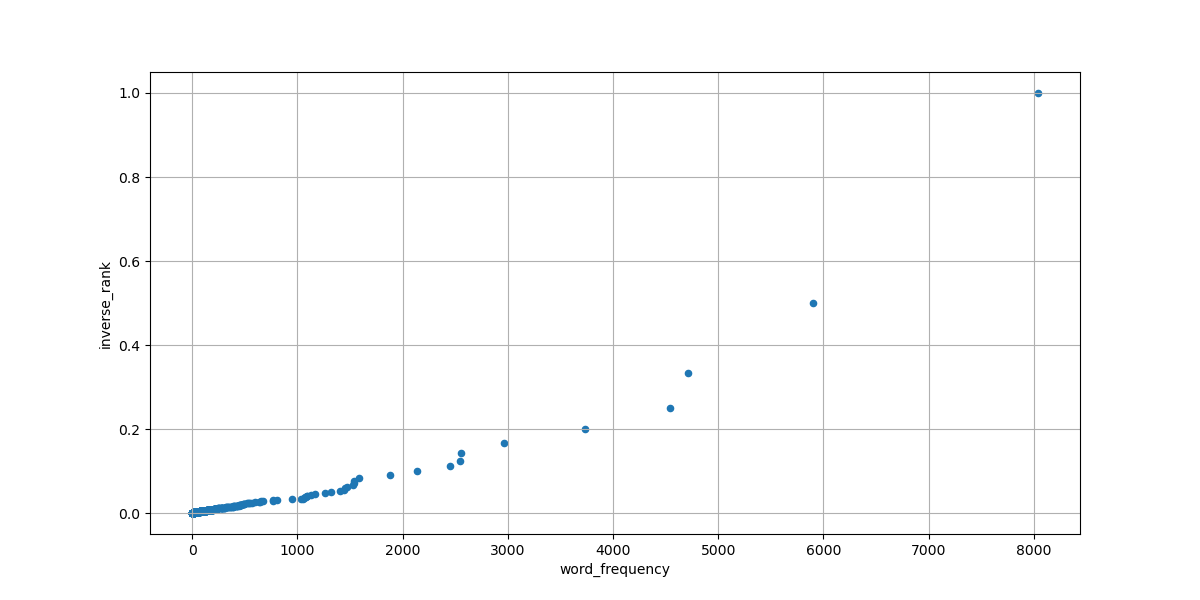
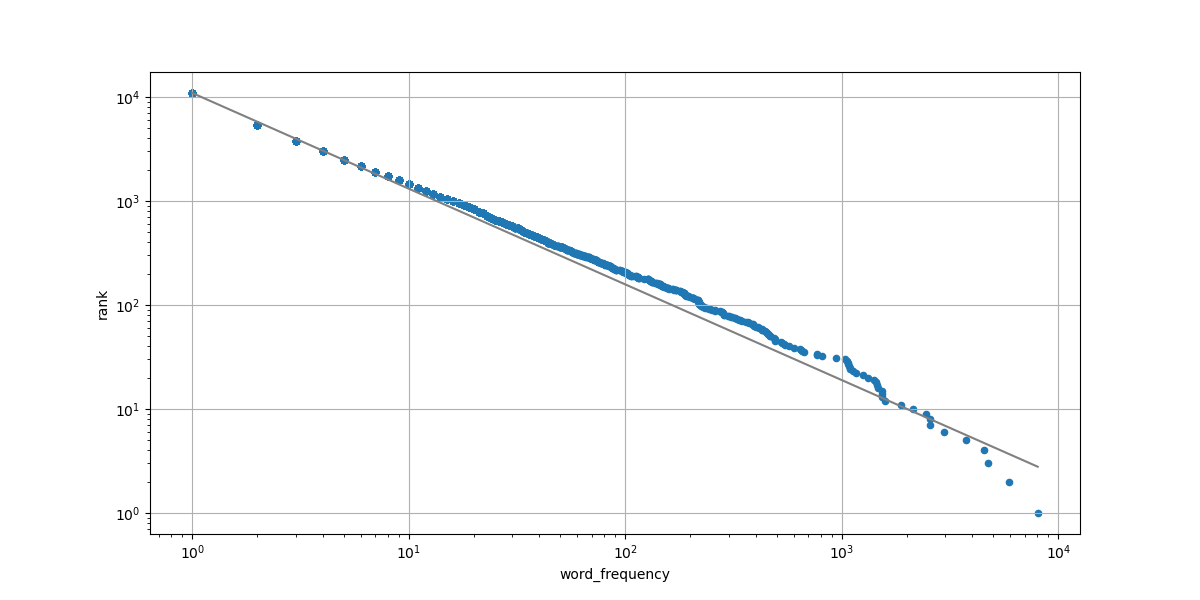
Added fit to word count data

diff --git a/bin/plotcounts.py b/bin/plotcounts.py
@@ -2,33 +2,100 @@
 
 import argparse
 
+import numpy as np
 import pandas as pd
+from scipy.optimize import minimize_scalar
+
+
+def nlog_likelihood(beta, counts):
+    """Log-likelihood function."""
+    likelihood = -np.sum(
+        np.log((1 / counts) ** (beta - 1) - (1 / (counts + 1)) ** (beta - 1))
+    )
+    return likelihood
+
+
+def get_power_law_params(word_counts):
+    """Get the power law parameters."""
+    mle = minimize_scalar(
+        nlog_likelihood, bracket=(1 + 1e-10, 4), args=word_counts, method="brent"
+    )
+    beta = mle.x
+    alpha = 1 / (beta - 1)
+    return alpha
+
+
+def plot_fit(curve_xmin, curve_xmax, max_rank, alpha, ax):
+    """
+    Plot the power law curve that was fitted to the data.
+
+    Parameters
+    ----------
+    curve_xmin : float
+        Minimum x-bound for fitted curve
+    curve_xmax : float
+        Maximum x-bound for fitted curve
+    max_rank : int
+        Maximum word frequency rank.
+    alpha : float
+        Estimated alpha parameter for the power law.
+    ax : matplotlib axes
+        Scatter plot to which the power curve will be added.
+    """
+    xvals = np.arange(curve_xmin, curve_xmax)
+    yvals = max_rank * (xvals ** (-1 / alpha))
+    ax.loglog(xvals, yvals, color="grey")
 
 
 def main(args):
     """Run the command line program."""
-    df = pd.read_csv(args.infile, header=None,
-                     names=('word', 'word_frequency'))
-    df['rank'] = df['word_frequency'].rank(ascending=False,
-                                           method='max')
-    ax = df.plot.scatter(x='word_frequency',
-                         y='rank', loglog=True,
-                         figsize=[12, 6],
-                         grid=True,
-                         xlim=args.xlim)
+    df = pd.read_csv(args.infile, header=None, names=("word", "word_frequency"))
+    df["rank"] = df["word_frequency"].rank(ascending=False, method="max")
+    ax = df.plot.scatter(
+        x="word_frequency",
+        y="rank",
+        loglog=True,
+        figsize=[12, 6],
+        grid=True,
+        xlim=args.xlim,
+    )
+
+    word_counts = df["word_frequency"].to_numpy()
+    alpha = get_power_law_params(word_counts)
+    print("alpha:", alpha)
+
+    # Since the ranks are already sorted, we can take the last
+    # one instead of computing which row has the highest rank
+    max_rank = df["rank"].to_numpy()[-1]
+
+    # Use the range of the data as the boundaries
+    # when drawing the power law curve
+    curve_xmin = df["word_frequency"].min()
+    curve_xmax = df["word_frequency"].max()
+
+    plot_fit(curve_xmin, curve_xmax, max_rank, alpha, ax)
     ax.figure.savefig(args.outfile)
 
 
-if __name__ == '__main__':
+if __name__ == "__main__":
     parser = argparse.ArgumentParser(description=__doc__)
-    parser.add_argument('infile', type=argparse.FileType('r'),
-                        nargs='?', default='-',
-                        help='Word count csv file name')
-    parser.add_argument('--outfile', type=str,
-                        default='plotcounts.png',
-                        help='Output image file name')
-    parser.add_argument('--xlim', type=float, nargs=2,
-                        metavar=('XMIN', 'XMAX'),
-                        default=None, help='X-axis limits')
+    parser.add_argument(
+        "infile",
+        type=argparse.FileType("r"),
+        nargs="?",
+        default="-",
+        help="Word count csv file name",
+    )
+    parser.add_argument(
+        "--outfile", type=str, default="plotcounts.png", help="Output image file name"
+    )
+    parser.add_argument(
+        "--xlim",
+        type=float,
+        nargs=2,
+        metavar=("XMIN", "XMAX"),
+        default=None,
+        help="X-axis limits",
+    )
     args = parser.parse_args()
     main(args)
